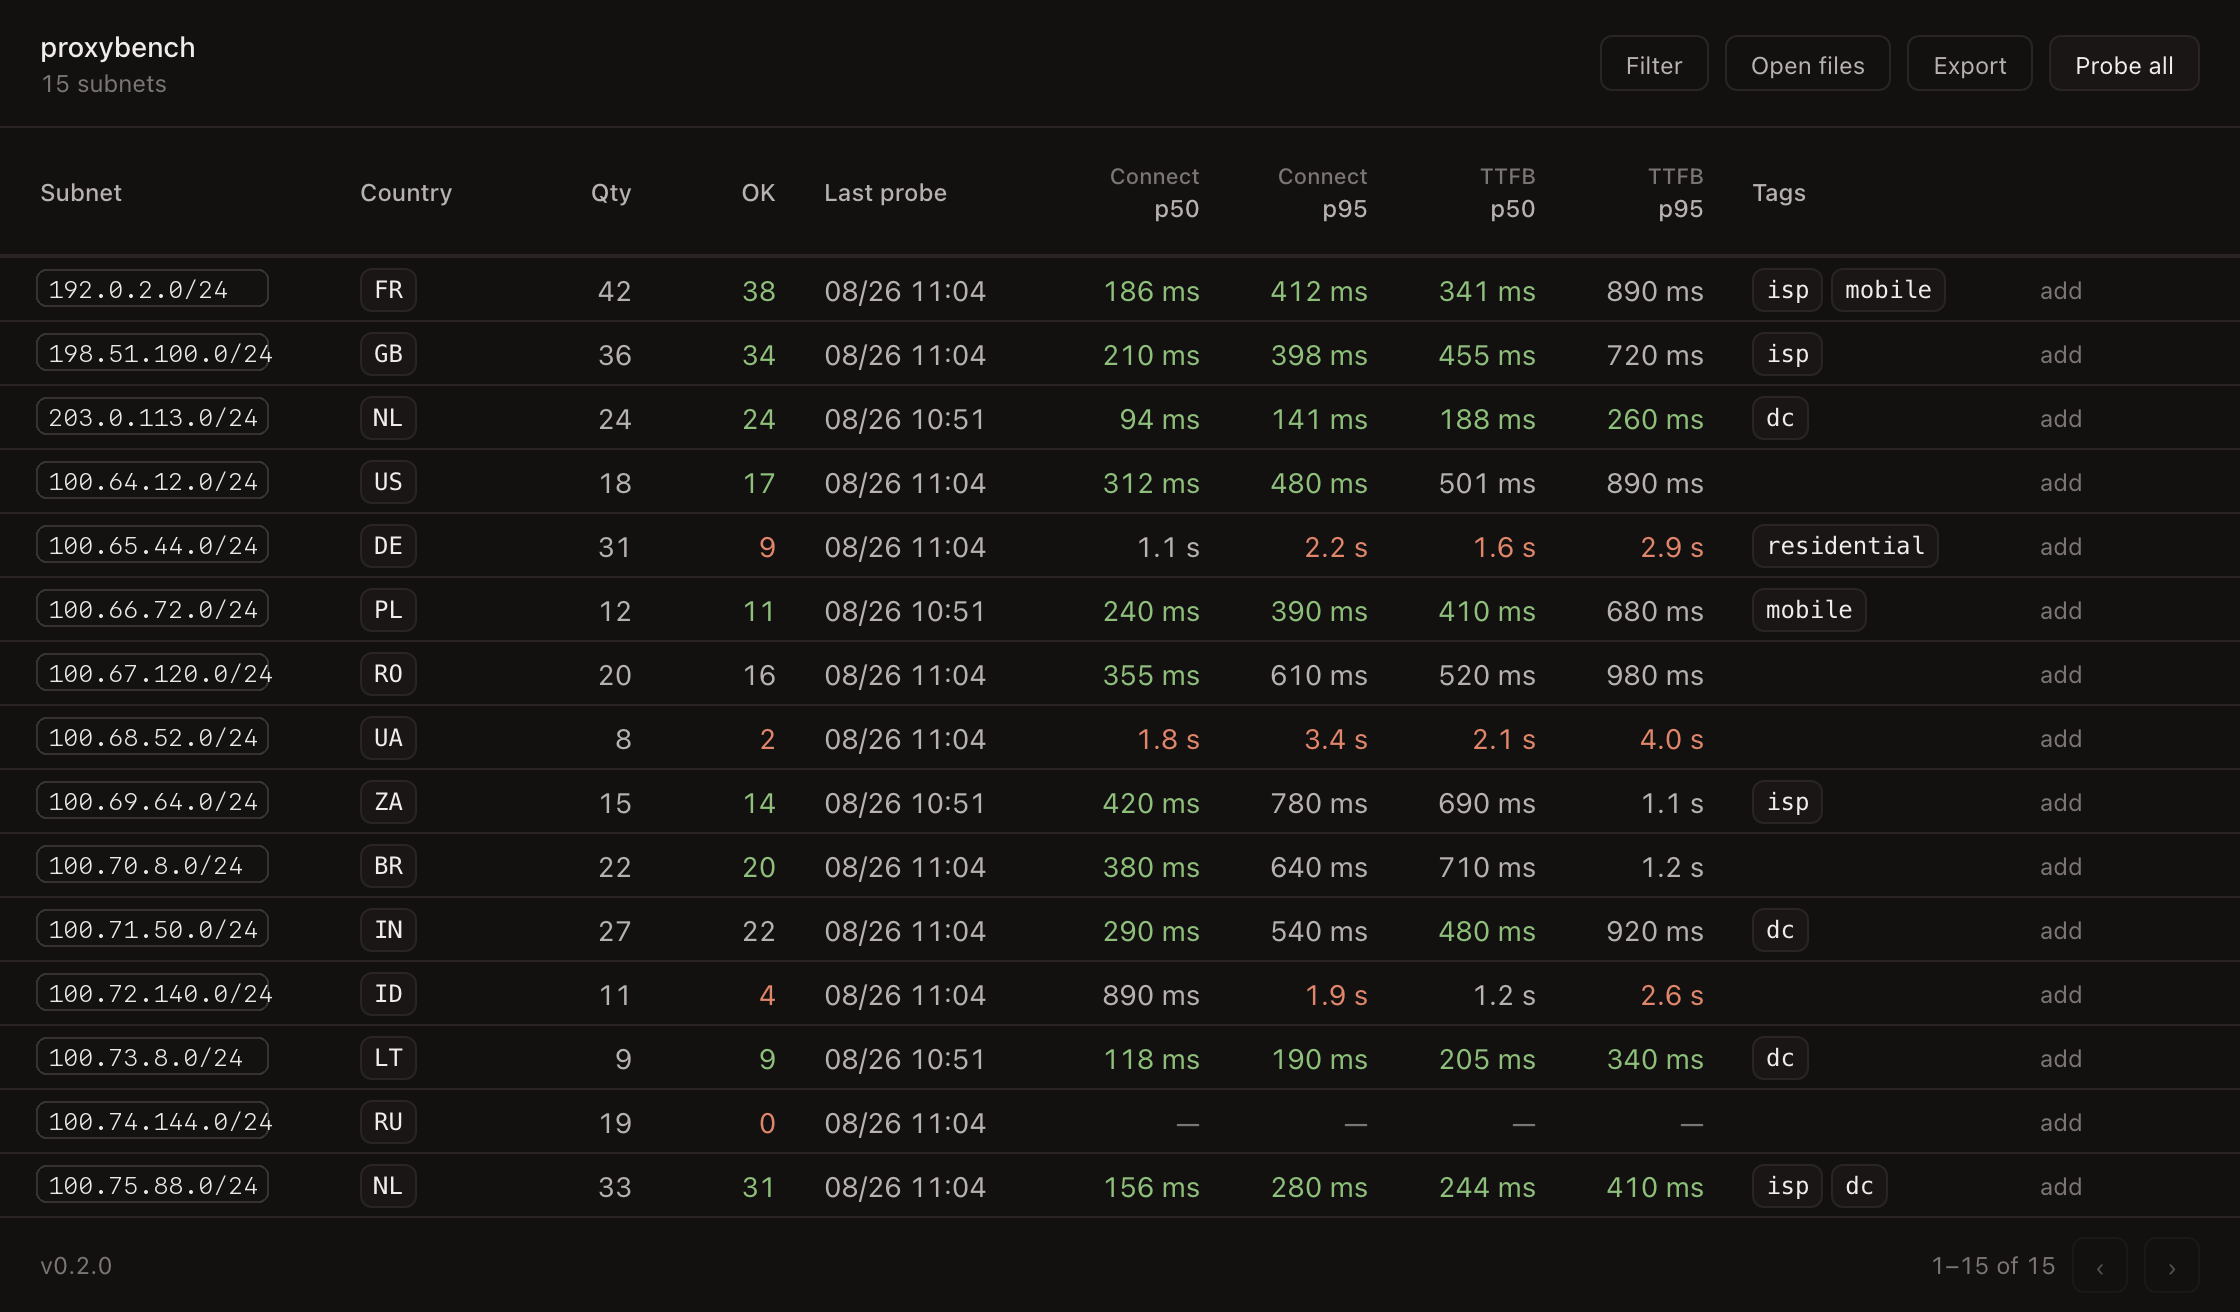
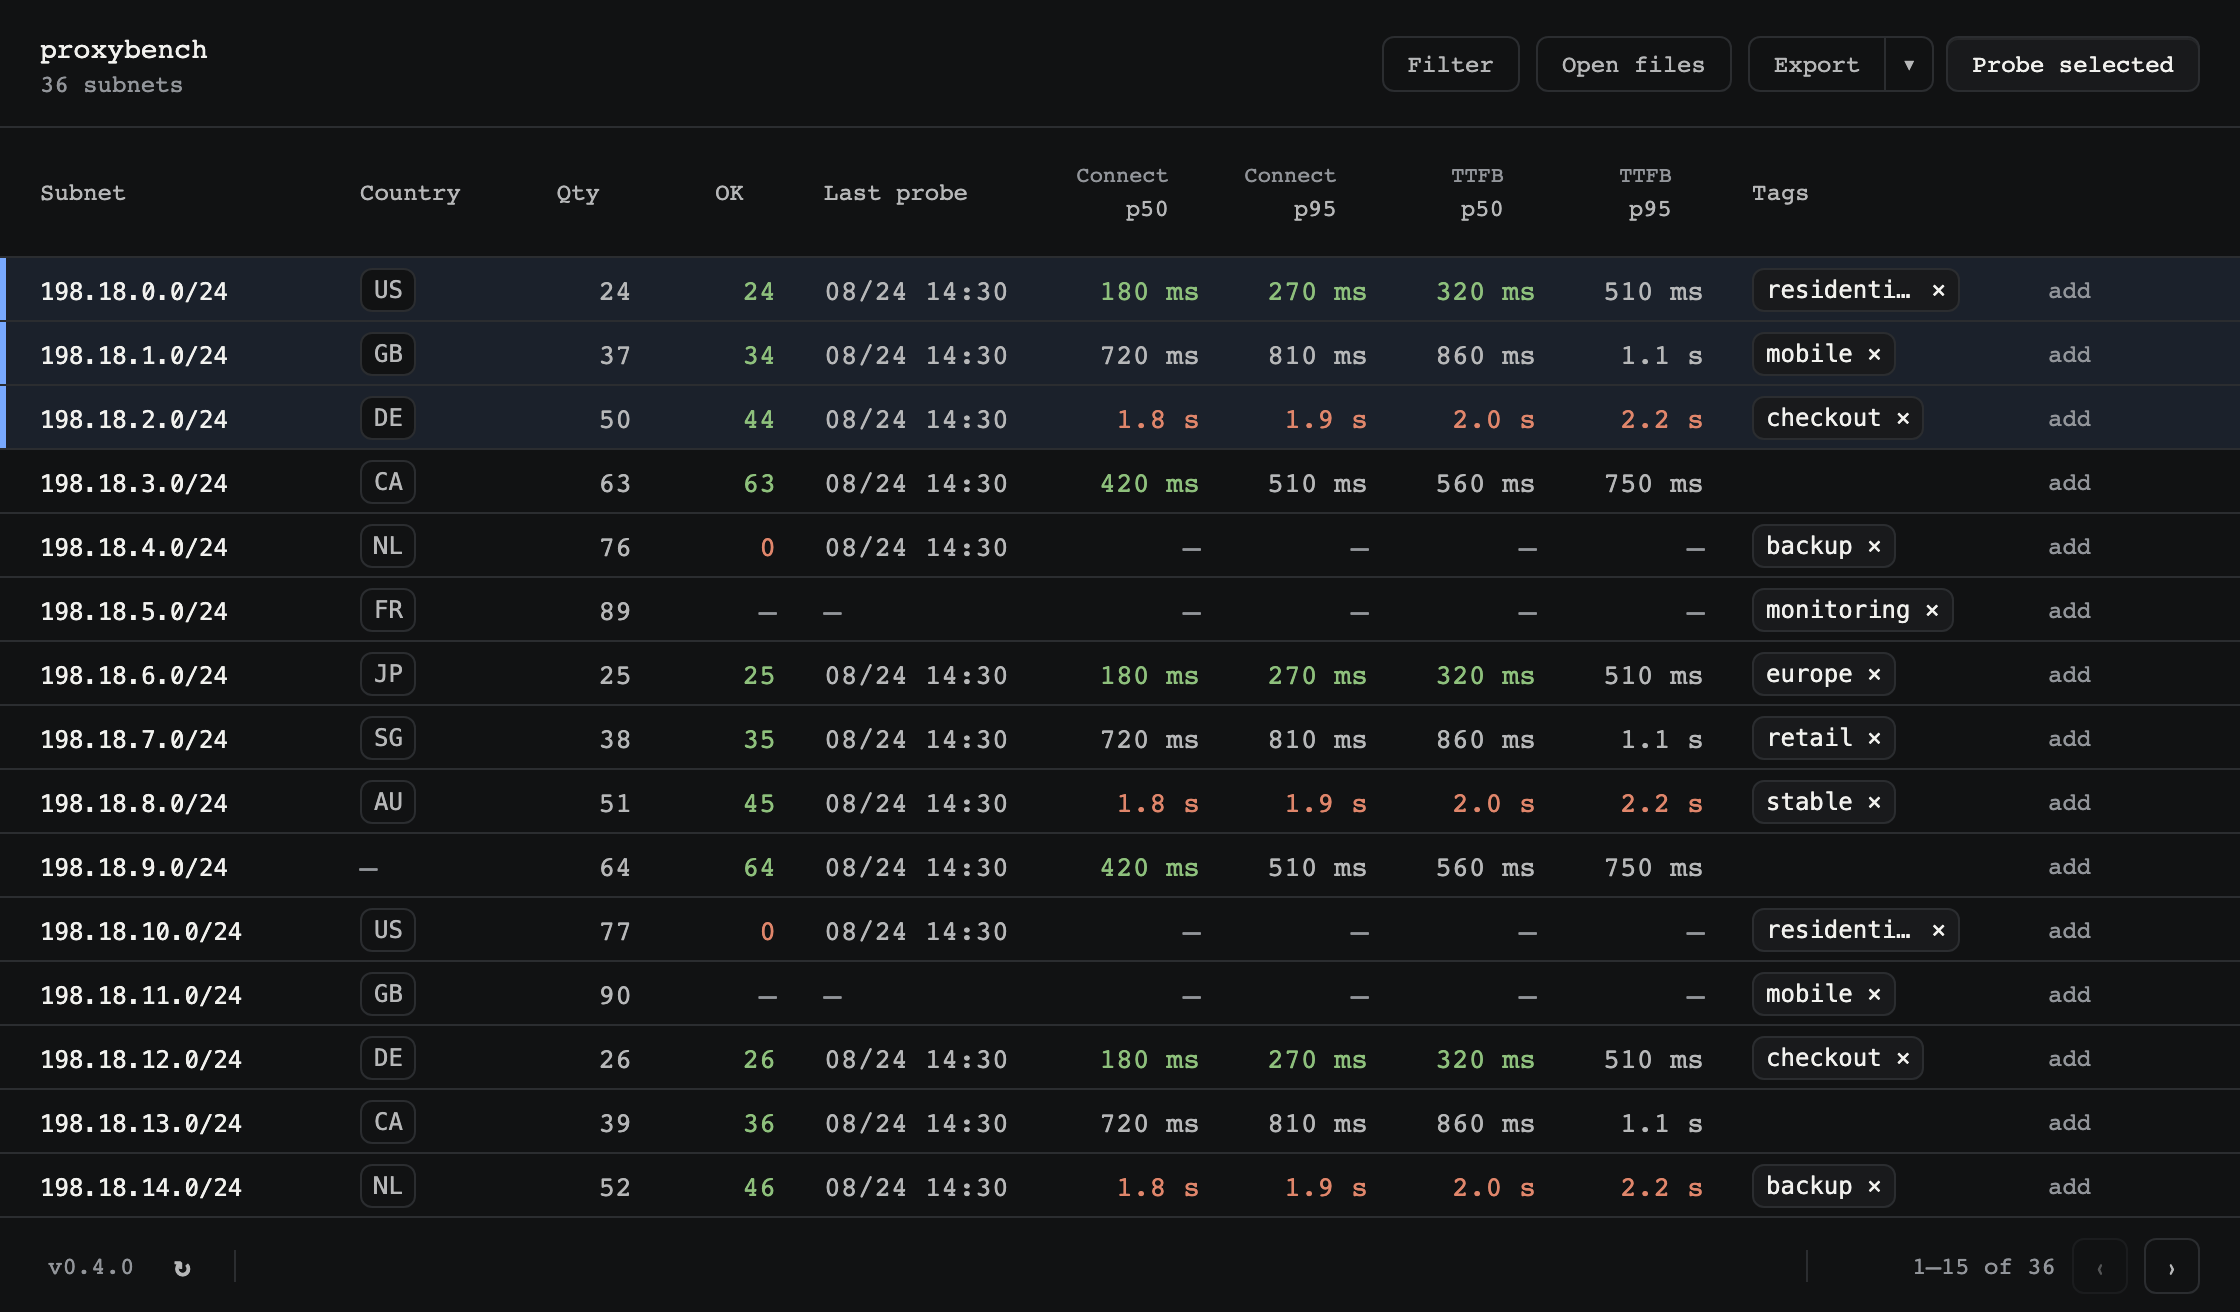
docs(readme): automate app screenshot (#23)
## What changed

- add a credential-free development-only screenshot fixture
- add `bun run screenshot` to capture the real UI deterministically
- refresh the README screenshot from the selected-subnet fixture
- harden menu focus when the toolbar changes scope

## Stack

Depends on the UI refresh PR. Review this PR by commit or with its base
branch.

## Verification

- two captures produced the same SHA-256
- screenshot is 2240x1312 (1120x656 at DPR 2)
- `bun run check`
- `bun run build`
- full Rust fmt, clippy, and 78 library tests

diff --git a/scripts/capture-screenshot.ts b/scripts/capture-screenshot.ts
@@ -1,0 +1,93 @@
+import { mkdir } from "node:fs/promises";
+import { dirname, resolve } from "node:path";
+import { fileURLToPath } from "node:url";
+import { chromium } from "playwright";
+
+const scriptDirectory = dirname(fileURLToPath(import.meta.url));
+const projectRoot = resolve(scriptDirectory, "..");
+const port = 1430;
+const url = `http://127.0.0.1:${port}/?screenshot=1`;
+const output = resolve(projectRoot, "docs/assets/screenshot.png");
+const playwrightCli = resolve(projectRoot, "node_modules/playwright/cli.js");
+const viteCli = resolve(projectRoot, "node_modules/vite/bin/vite.js");
+
+let server: Bun.Subprocess | undefined;
+let browser: Awaited<ReturnType<typeof chromium.launch>> | undefined;
+let stopping: Promise<void> | undefined;
+
+async function waitForServer() {
+  const deadline = Date.now() + 30_000;
+  while (Date.now() < deadline) {
+    try {
+      const response = await fetch(url);
+      if (response.ok) {
+        return;
+      }
+    } catch {}
+    await Bun.sleep(100);
+  }
+  throw new Error(`Vite did not become ready at ${url}`);
+}
+
+async function run(command: string[]) {
+  const process = Bun.spawn(command, { cwd: projectRoot, stdout: "inherit", stderr: "inherit" });
+  if ((await process.exited) !== 0) {
+    throw new Error(`Command failed: ${command.join(" ")}`);
+  }
+}
+
+async function stopServer() {
+  if (!server || server.exitCode !== null) {
+    return;
+  }
+  server.kill("SIGTERM");
+  await Promise.race([server.exited.then(() => {}), Bun.sleep(5_000)]);
+  if (server.exitCode === null) {
+    server.kill("SIGKILL");
+    await server.exited;
+  }
+}
+
+function cleanup() {
+  stopping ??= (async () => {
+    await browser?.close();
+    await stopServer();
+  })();
+  return stopping;
+}
+
+for (const signal of ["SIGINT", "SIGTERM"] as const) {
+  process.once(signal, () => {
+    void cleanup().finally(() => process.exit(128));
+  });
+}
+
+try {
+  await run([process.execPath, playwrightCli, "install", "chromium"]);
+  server = Bun.spawn(
+    [process.execPath, viteCli, "dev", "--host", "127.0.0.1", "--port", String(port), "--strictPort"],
+    { cwd: projectRoot, stdout: "inherit", stderr: "inherit" },
+  );
+  await waitForServer();
+  browser = await chromium.launch();
+  const context = await browser.newContext({
+    viewport: { width: 1120, height: 656 },
+    deviceScaleFactor: 2,
+    locale: "en-US",
+    timezoneId: "UTC",
+  });
+  const page = await context.newPage();
+  await page.goto(url, { waitUntil: "domcontentloaded" });
+  await page.waitForSelector('html[data-screenshot-ready="true"]');
+  await page.evaluate(async () => {
+    await document.fonts.ready;
+  });
+  await page.addStyleTag({
+    content: "*, *::before, *::after { animation: none !important; caret-color: transparent !important; transition: none !important; }",
+  });
+  await mkdir(dirname(output), { recursive: true });
+  await page.screenshot({ path: output, animations: "disabled" });
+  await context.close();
+} finally {
+  await cleanup();
+}

diff --git a/src/routes/+page.svelte b/src/routes/+page.svelte
@@ -5,7 +5,7 @@
   import { open, save } from "@tauri-apps/plugin-dialog";
   import { openUrl } from "@tauri-apps/plugin-opener";
   import { getCurrentWebview } from "@tauri-apps/api/webview";
-  import { onMount } from "svelte";
+  import { onMount, tick } from "svelte";
   import type { ImportResult, Progress, RunResult, SubnetRow } from "$lib/import";
   import { emptyMetrics, withMetrics } from "$lib/import";
   import SubnetTable from "$lib/SubnetTable.svelte";
@@ -46,6 +46,8 @@
   });
   let noticeTimer: ReturnType<typeof setTimeout> | null = null;
 
+  const screenshotMode = import.meta.env.DEV && new URLSearchParams(window.location.search).get("screenshot") === "1";
+
   const locked = $derived(busy || running || updating);
   const selectedScope = $derived(selectedCidrs.size > 0 ? [...selectedCidrs] : null);
 
@@ -54,6 +56,12 @@
     const next = new Set([...selectedCidrs].filter((cidr) => available.has(cidr)));
     if (next.size !== selectedCidrs.size) {
       selectedCidrs = next;
+    }
+  });
+
+  $effect(() => {
+    if (selectedCidrs.size > 0) {
+      exportMenuOpen = false;
     }
   });
 
@@ -82,6 +90,10 @@
   }
 
   onMount(() => {
+    if (screenshotMode) {
+      void loadScreenshot();
+      return;
+    }
     let disposed = false;
     let stopDrop = () => {};
     let stopProgress = () => {};
@@ -154,6 +166,16 @@
       }
     };
   });
+
+  async function loadScreenshot() {
+    const { screenshotRows, screenshotSelectedCidrs } = await import("$lib/screenshot");
+    rows = screenshotRows;
+    draft = Object.fromEntries(screenshotRows.map((row) => [row.cidr, ""]));
+    selectedCidrs = new Set(screenshotSelectedCidrs);
+    version = __SCREENSHOT_VERSION__;
+    await tick();
+    document.documentElement.dataset.screenshotReady = "true";
+  }
 
   function applyProgress(progress: Progress) {
     done = progress.done;

diff --git a/src/lib/screenshot.ts b/src/lib/screenshot.ts
@@ -1,0 +1,43 @@
+import type { SubnetRow } from "./import";
+
+const probedAt = Date.UTC(2026, 7, 24, 14, 30);
+
+const countries = ["US", "GB", "DE", "CA", "NL", "FR", "JP", "SG", "AU", null];
+const tagSets = [
+  ["residential"],
+  ["mobile"],
+  ["checkout"],
+  [],
+  ["backup"],
+  ["monitoring"],
+  ["europe"],
+  ["retail"],
+  ["stable"],
+  [],
+];
+
+export const screenshotRows: SubnetRow[] = Array.from({ length: 36 }, (_, index) => {
+  const state = index % 6;
+  const measured = state !== 5;
+  const hasMetrics = measured && state !== 4;
+  const quantity = 24 + ((index * 13) % 77);
+  const ok = state === 4 ? 0 : measured ? quantity - ((index * 3) % 9) : null;
+  const base = state === 0 ? 180 : state === 1 ? 720 : state === 2 ? 1840 : 420;
+
+  return {
+    cidr: `198.18.${index}.0/24`,
+    country: countries[index % countries.length],
+    quantity,
+    tags: tagSets[index % tagSets.length],
+    ok,
+    connectP50: hasMetrics ? base : null,
+    connectP95: hasMetrics ? base + 90 : null,
+    ttfbP50: hasMetrics ? base + 140 : null,
+    ttfbP95: hasMetrics ? base + 330 : null,
+    lastRunAt: measured ? probedAt : null,
+  };
+});
+
+export const screenshotSelectedCidrs = new Set(
+  screenshotRows.slice(0, 3).map((row) => row.cidr),
+);

diff --git a/vite.config.js b/vite.config.js
@@ -1,11 +1,15 @@
 import { sveltekit } from "@sveltejs/kit/vite";
 import tailwindcss from "@tailwindcss/vite";
 import { defineConfig } from "vite";
+import packageJson from "./package.json" with { type: "json" };
 
 const host = process.env.TAURI_DEV_HOST;
 
 export default defineConfig(async () => ({
   plugins: [tailwindcss(), sveltekit()],
+  define: {
+    __SCREENSHOT_VERSION__: JSON.stringify(packageJson.version),
+  },
   clearScreen: false,
   server: {
     port: 1420,

diff --git a/src/lib/ui/MenuSurface.svelte b/src/lib/ui/MenuSurface.svelte
@@ -1,5 +1,5 @@
 <script lang="ts">
-  import { onDestroy, tick, type Snippet } from "svelte";
+  import { tick, type Snippet } from "svelte";
 
   let {
     children,
@@ -33,8 +33,6 @@
       (first ?? root)?.focus();
     });
   });
-
-  onDestroy(restoreFocus);
 
   function moveFocus(event: KeyboardEvent) {
     const items = [...(root?.querySelectorAll<HTMLButtonElement>('[role="menuitem"]:not(:disabled)') ?? [])];

diff --git a/src/app.d.ts b/src/app.d.ts
@@ -1,0 +1,1 @@
+declare const __SCREENSHOT_VERSION__: string;

diff --git a/AGENTS.md b/AGENTS.md
@@ -102,6 +102,12 @@ cargo clippy --locked --all-targets --manifest-path src-tauri/Cargo.toml -- -D w
 cargo test --locked --lib --manifest-path src-tauri/Cargo.toml
 ```
 
+Run `bun run screenshot` to refresh `docs/assets/screenshot.png` from the real
+page using its credential-free `?screenshot=1` fixture; the command starts and
+stops its own Vite server and browser. The 2240 by 1312 image captures the
+1120 by 656 webview content at 2x; the remaining 32px of the 1120 by 688 Tauri
+window is native title chrome and is not captured.
+
 ## Commits
 
 - [Conventional Commits](https://www.conventionalcommits.org/en/v1.0.0/):
